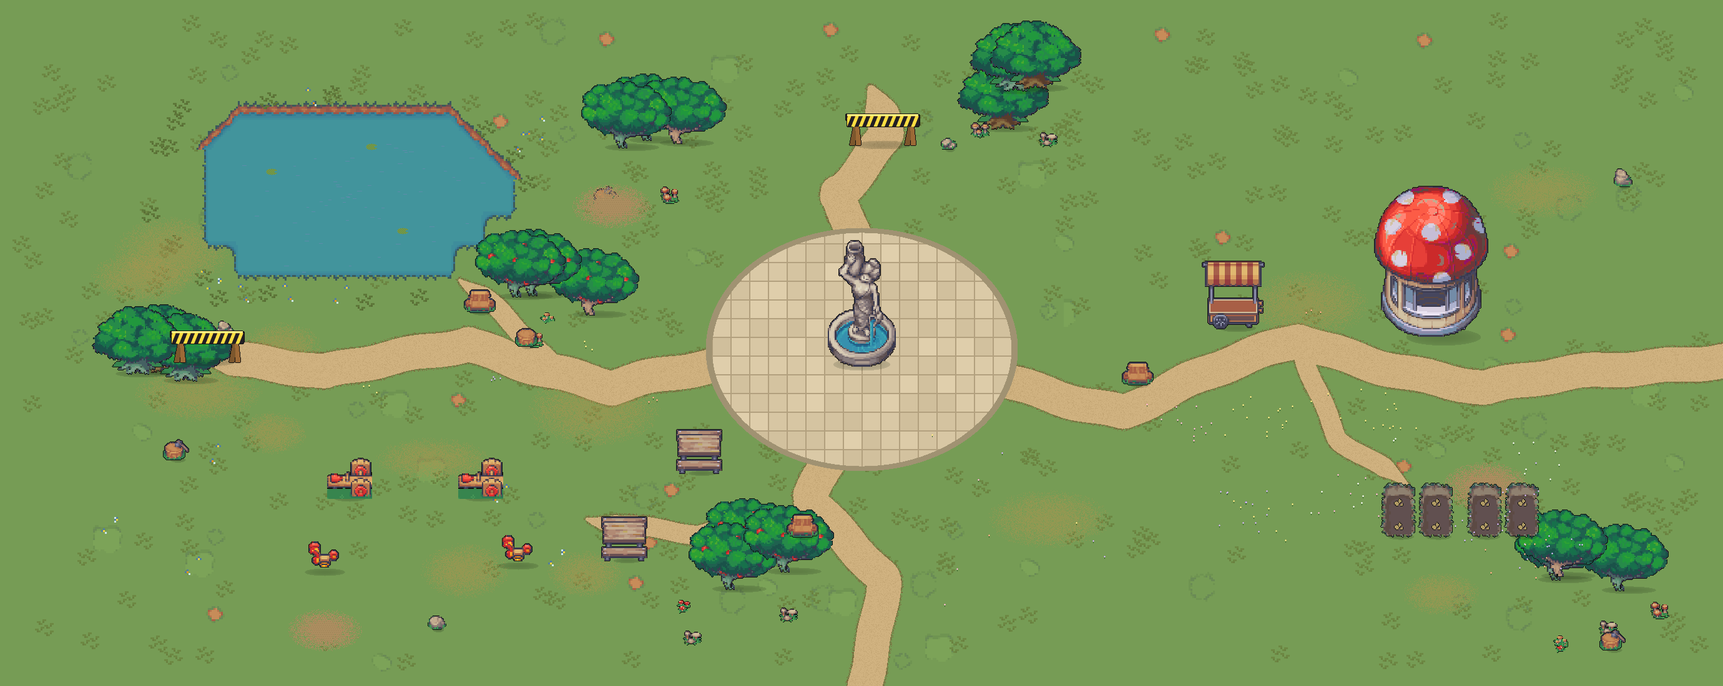
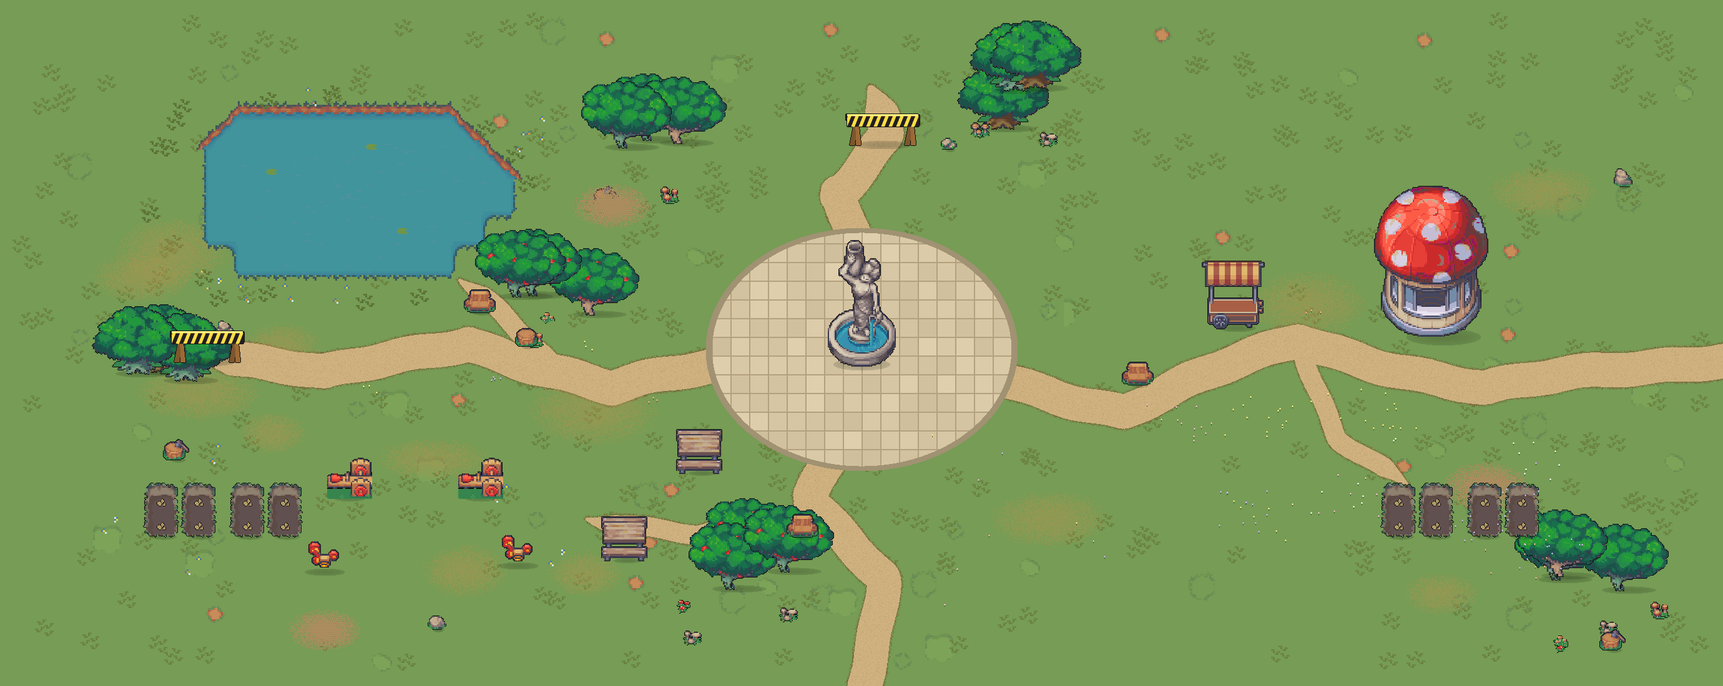
Park 2.0 W3: GARDENER LEVELS + STAR TIERS + FARM CROPS - tomato star3/90c/4d, pumpkin star4/160c/5d, golden wheat star5/300c/6d (4 baked stages each), stars feed the bloom server-side (0.06/h/star, wilt 3+stars/2 days), gardener lvl from garden_harvests pass stat gates the shelf (L2@3/L3@8/L4@15, lo

Changed region(s): [[0.0623, 0.68, 0.187, 0.8036]]

diff --git a/src/scripts/banana-park.js b/src/scripts/banana-park.js
@@ -104,20 +104,38 @@ function drawApron(ctx, S) {
 }
 
 // 🌱 THE GARDEN — the park's daily-return ritual (P3b).
-// ⚠ growth days must match GARDEN_SEEDS in worker-rave/src/index.js.
-// Harvests pay in DRAFT wearables (own_<id> pass stats — the items sit on the
-// /dev-wearables desk behind preview:true until Trym approves them).
+// ⚠ THE seed catalog — stars/days/price must match GARDEN_SEEDS in
+// worker-rave/src/index.js (one catalog, two runtimes). ⭐ stars have ONE
+// meaning: a living plant feeds the Bloom by its stars (higher also wilts
+// slower, server-side). Flowers harvest into DRAFT wearables (own_<id> pass
+// stats, /dev-wearables desk); crops pay rep (stars × 8) — crop wearables
+// wait on a Trym batch review.
 const SEEDS = [
-  { id: 'daisy', emoji: '🌼', name: 'daisy', price: 10, days: 2, wearable: 'daisypin', wearLabel: 'daisy pin' },
-  { id: 'sunflower', emoji: '🌻', name: 'sunflower', price: 25, days: 4, wearable: 'sunflowercrown', wearLabel: 'sunflower crown' },
-  { id: 'tulip', emoji: '🌷', name: 'midnight tulip', price: 60, days: 5, wearable: 'midnighttulip', wearLabel: 'midnight tulip', rare: true },
+  { id: 'daisy', emoji: '🌼', name: 'daisy', stars: 1, price: 10, days: 2, wearable: 'daisypin', wearLabel: 'daisy pin' },
+  { id: 'sunflower', emoji: '🌻', name: 'sunflower', stars: 2, price: 25, days: 4, wearable: 'sunflowercrown', wearLabel: 'sunflower crown' },
+  { id: 'tulip', emoji: '🌷', name: 'midnight tulip', stars: 3, price: 60, days: 5, wearable: 'midnighttulip', wearLabel: 'midnight tulip', rare: true },
+  { id: 'tomato', emoji: '🍅', name: 'tomato', stars: 3, price: 90, days: 4, crop: 1 },
+  { id: 'pumpkin', emoji: '🎃', name: 'pumpkin', stars: 4, price: 160, days: 5, crop: 1 },
+  { id: 'wheat', emoji: '🌾', name: 'golden wheat', stars: 5, price: 300, days: 6, crop: 1, rare: true },
 ];
 const SEED_BY = {};
 SEEDS.forEach((s) => { SEED_BY[s.id] = s; });
-// growth-stage sprites (generated by build-park-scene.py, pack art) + dims
+const starStr = (n) => '⭐'.repeat(n);
+// 🧑🌾 gardener level — derived from total harvests (garden_harvests pass
+// stat): reach GLVL_AT[i] harvests → level i+1 → seeds up to GLVL_STARS[i]
+const GLVL_AT = [0, 3, 8, 15];
+const GLVL_STARS = [2, 3, 4, 5];
+// growth-stage sprites (generated by build-park-scene.py, pack art) + dims;
+// crops carry four stages of their own (c-<id>-1..4)
 const STAGE_ART = {
   sprout1: ['g-sprout1.png', 24, 28], sprout2: ['g-sprout2.png', 24, 33],
   daisy: ['g-daisy.png', 26, 31], sunflower: ['g-sunflower.png', 31, 47], tulip: ['g-tulip.png', 31, 26],
+  tomato1: ['c-tomato-1.png', 22, 19], tomato2: ['c-tomato-2.png', 22, 33],
+  tomato3: ['c-tomato-3.png', 22, 38], tomato4: ['c-tomato-4.png', 28, 58],
+  pumpkin1: ['c-pumpkin-1.png', 28, 19], pumpkin2: ['c-pumpkin-2.png', 38, 28],
+  pumpkin3: ['c-pumpkin-3.png', 38, 35], pumpkin4: ['c-pumpkin-4.png', 38, 51],
+  wheat1: ['c-wheat-1.png', 24, 12], wheat2: ['c-wheat-2.png', 24, 24],
+  wheat3: ['c-wheat-3.png', 24, 26], wheat4: ['c-wheat-4.png', 31, 38],
 };
 const GARDEN_API = 'https://banana-rave.trymstene.workers.dev/park-garden';
 // 🌿 weed spots for the ?parktest shim only — the real list lives server-side
@@ -140,25 +158,16 @@ const ANIMALS = [
 // ?parktest gathers the land animals by the plaza spawn (ducks stay pond-side)
 const TEST_ANIMAL_HOMES = [[1270, 830], [1340, 890], [1440, 880], null, null, [1470, 820]];
 
-// 🥚 the bloom card's animals line, phase by phase (W2)
-const EGG_LINES = [
-  'the animals mope about, heads down. nobody lays anything.',
-  'the animals mope about, heads down. nobody lays anything.',
-  'the hens are unsettled — an egg turns up once in a while.',
-  'the animals are happy. eggs come steady — first tap gets them.',
-  'the flock is thriving — at full bloom an egg can come out GOLDEN.',
-];
-
 // 🌸 the bloom card IS the bar (Trym): five tappable phase segments, a
 // glyph each, wilted→lush ramp; a tap reveals that phase's line below
 const PHASE_GLYPHS = ['💀', '🍂', '🌱', '🌿', '🦋'];
-// the five honest phase lines — dead → perfect
+// ONE line per phase (Trym): the state + what to do about it
 const PHASE_LINES = [
-  '💀 the park is dead. dust, straw and bare branches.',
-  '🍂 wilting badly — the straw is winning.',
-  '🌾 patchy — green in places, straw in others. keep going.',
-  '🌿 nearly back — the squirrels returned.',
-  '🦋 in full bloom. the butterflies are out.',
+  '💀 the park is dead — pull the weeds and plant something.',
+  '🍂 wilting badly — keep pulling, keep planting.',
+  '🌾 patchy, half straw — water what grows.',
+  '🌿 nearly back — keep it watered and weeded.',
+  '🦋 in full bloom — hold it here and an egg can come out golden.',
 ];
 
 const WISHES = [
@@ -988,12 +997,13 @@ function init() {
   const myShort = worldSid().slice(0, 8);
   const gardenPanel = document.getElementById('pkGarden');
   const gardenBody = document.getElementById('pkGardenBody');
-  let gSlots = Array(8).fill(null);
+  // 16 slots since W3 — 0-7 site A (meadow), 8-15 site B (playground)
+  let gSlots = Array(16).fill(null);
   const gEls = PLOTS.map(() => ({ plant: null, chip: null, stage: '', chipKey: '' }));
   let pendingGarden = null, gardenOpenSlot = -1;
   let plantTracked = false, waterTracked = false, harvestTracked = false;
   const gShim = {   // the ?parktest stand-in server (pre-lays a plain + golden egg)
-    slots: Array(8).fill(null), weeds: [], bloom: 70,
+    slots: Array(16).fill(null), weeds: [], bloom: 70,
     eggs: [{ id: 'qa1', x: 1330, y: 876 }, { id: 'qa2', x: 1432, y: 866, g: 1 }],
   };
   function shimGarden(path, body) {
@@ -1053,7 +1063,17 @@ function init() {
   function gStageArt(s) {
     const sd = SEED_BY[s.seed] || SEEDS[0];
     const t = gDays(s) / sd.days;
+    if (sd.crop) {   // crops grow through their own four baked stages
+      return STAGE_ART[s.seed + (t >= 1 ? 4 : t >= 0.66 ? 3 : t >= 0.33 ? 2 : 1)];
+    }
     return t >= 1 ? STAGE_ART[s.seed] : t >= 0.4 ? STAGE_ART.sprout2 : STAGE_ART.sprout1;
+  }
+  // 🧑🌾 gardener level from harvests: [lvl 1..GLVL_AT.length, harvests, max ⭐]
+  function gardenerLvl() {
+    const n = (passGet().stats || {}).garden_harvests || 0;
+    let l = 1;
+    while (l < GLVL_AT.length && n >= GLVL_AT[l]) l++;
+    return { lvl: l, n, stars: GLVL_STARS[l - 1] };
   }
   // no text signs on the lawn (they cramped instantly — Trym): the identifier
   // is a tiny emoji CHIP above each plant; yellow ring + dot = yours. All the
@@ -1227,6 +1247,7 @@ function init() {
   bloomBtn.addEventListener('click', () => {
     const n = weeds.size;
     const v = Math.max(0, bloomV);
+    const stars = gSlots.reduce((t, s) => t + ((SEED_BY[s && s.seed] || {}).stars || 0), 0);
     gardenBody.innerHTML = '<h2>🌸 the bloom</h2>'
       + '<div class="pk-bsegs">' + PHASE_GLYPHS.map((g, i) =>
         '<button class="pk-bseg pk-bseg--' + i + (i === phase ? ' is-now' : '') + '" type="button"'
@@ -1234,13 +1255,13 @@ function init() {
         + '<i style="width:' + Math.round(Math.max(0, Math.min(1, (v - PHASE_STARTS[i]) / 20)) * 100) + '%"></i>'
         + '<span>' + g + '</span></button>').join('') + '</div>'
       + '<p class="pk-bloomnum">' + v + '%'
-      + (n ? ' · ' + n + ' weed' + (n === 1 ? '' : 's') + ' out there' : '') + '</p>'
-      + '<p id="pkBexp"></p><p class="pk-bexp--sub" id="pkBexp2"></p>';
-    const exp = document.getElementById('pkBexp'), exp2 = document.getElementById('pkBexp2');
+      + (n ? ' · ' + n + ' weed' + (n === 1 ? '' : 's') + ' out there' : '')
+      + (stars ? ' · ' + starStr(Math.min(stars, 5)) + (stars > 5 ? '×' + stars : '') + ' feeding it' : '') + '</p>'
+      + '<p id="pkBexp"></p>';
+    const exp = document.getElementById('pkBexp');
     const show = (i) => {
       exp.className = 'pk-bexp' + (i <= 1 ? ' pk-bexp--sad' : '');
       exp.textContent = PHASE_LINES[i];
-      exp2.textContent = EGG_LINES[i];
       gardenBody.querySelectorAll('.pk-bseg').forEach((b) => b.classList.toggle('is-open', +b.dataset.p === i));
     };
     gardenBody.querySelectorAll('.pk-bseg').forEach((b) => {
@@ -1272,15 +1293,24 @@ function init() {
   function openSeedSheet(i) {
     gardenOpenSlot = i;
     const bal = coinBal();
+    const gl = gardenerLvl();
+    // locked seeds stay VISIBLE (aspiration) — greyed, with the level they need
+    const lvlFor2 = (sd) => 1 + GLVL_STARS.findIndex((mx) => sd.stars <= mx);
     gardenBody.innerHTML = '<h2>an empty patch</h2>'
+      + '<p class="pk-glvl">🧑🌾 gardener lvl ' + gl.lvl + ' · ' + gl.n + ' harvest' + (gl.n === 1 ? '' : 's') + '</p>'
       + '<p class="pk-panel__sub">plant a seed — it grows on real days, even while you’re gone. '
-      + 'come back to water it (unwatered 3 days = it wilts away).</p>'
-      + SEEDS.map((sd) => '<button class="pk-seedrow" type="button" data-seed="' + sd.id + '"'
-        + (bal < sd.price ? ' disabled' : '') + '>'
-        + '<i>' + sd.emoji + '</i>'
-        + '<span class="pk-seedrow__txt"><b>' + sd.name + (sd.rare ? ' <em>rare</em>' : '') + '</b>'
-        + '<small>' + sd.days + ' days → the ' + sd.wearLabel + '</small></span>'
-        + coinChip(sd.price) + '</button>').join('')
+      + 'water it or it wilts away (higher ⭐ holds out longer). ⭐ feed the bloom while it lives.</p>'
+      + SEEDS.map((sd) => {
+        const locked = sd.stars > gl.stars;
+        return '<button class="pk-seedrow' + (locked ? ' pk-seedrow--lock' : '') + '" type="button"'
+          + ' data-seed="' + sd.id + '"' + (locked || bal < sd.price ? ' disabled' : '') + '>'
+          + '<i>' + sd.emoji + '</i>'
+          + '<span class="pk-seedrow__txt"><b>' + sd.name + (sd.rare ? ' <em>rare</em>' : '') + '</b>'
+          + '<small>' + starStr(sd.stars) + ' · ' + sd.days + ' days → '
+          + (locked ? '🔒 gardener lvl ' + lvlFor2(sd)
+            : sd.crop ? '+' + (sd.stars * 8) + ' rep' : 'the ' + sd.wearLabel) + '</small></span>'
+          + coinChip(sd.price) + '</button>';
+      }).join('')
       + (bal < SEEDS[0].price ? '<p class="pk-seedpoor">no coins — the rave floor drops them</p>' : '');
     gardenBody.querySelectorAll('.pk-seedrow').forEach((b) => {
       b.addEventListener('click', () => plantSeed(i, b.dataset.seed));
@@ -1289,7 +1319,7 @@ function init() {
   }
   async function plantSeed(i, seedId) {
     const sd = SEED_BY[seedId];
-    if (!sd || coinBal() < sd.price) return;
+    if (!sd || coinBal() < sd.price || sd.stars > gardenerLvl().stars) return;
     passStat('coins_spent', sd.price);
     refreshHud();
     closeGarden();
@@ -1317,6 +1347,7 @@ function init() {
       ? '<h2>' + sd.emoji + ' your ' + sd.name + '</h2>'
       : '<h2>' + esc(s.name || 'a mystery banana') + '</h2>'
         + '<p class="pk-gplant">' + sd.emoji + ' their ' + sd.name + '</p>')
+      + '<p class="pk-gplant">' + starStr(sd.stars) + '</p>'
       + '<p class="pk-panel__sub">' + (ready
         ? (mine ? 'full-grown — tap it to harvest!' : 'ready to pick — only its grower can harvest it.')
         : 'day ' + Math.min(gDays(s) + 1, sd.days) + ' of ' + sd.days + ' · growing on real days')
@@ -1324,7 +1355,8 @@ function init() {
       + '<p class="pk-gwater">💧 watered by ' + (s.waterers || 0) + ' visitor' + (s.waterers === 1 ? '' : 's') + '</p>'
       + (ready ? '' : '<button class="pk-btn pk-gbtn" id="pkWaterBtn" type="button">💧 water it'
         + (mine ? '' : ' <small>+2 rep</small>') + '</button>')
-      + (mine ? '<p class="pk-gsaved">💾 saved to your pass</p>' : '');
+      + (mine ? '<p class="pk-gsaved">' + (sd.crop
+        ? '🌾 harvest pays +' + (sd.stars * 8) + ' rep' : '💾 saved to your pass') + '</p>' : '');
     const wb = document.getElementById('pkWaterBtn');
     if (wb) wb.addEventListener('click', () => waterSlot(i));
     gardenPanel.hidden = false;
@@ -1360,10 +1392,21 @@ function init() {
     const res = await gFetch('/harvest', { slot: i, pass: worldSid() });
     if (res && res.err) { applyGarden(res); toast(res.err === 'still growing' ? 'not quite ready yet' : 'the patch is bare'); return; }
     applyGarden(res);
-    passStat('own_' + sd.wearable, 1);   // the wearable's earned-gate proof
+    const before = gardenerLvl().lvl;
+    passStat('garden_harvests', 1);      // the gardener level's ledger
     confettiAt(PLOTS[i][0], PLOTS[i][1]);
-    toast(sd.emoji + ' ' + sd.wearLabel + ' harvested — saved to your pass!', 4200);
-    if (!harvestTracked) { harvestTracked = true; track('park_harvest', { seed: s.seed }); }
+    if (sd.crop) {                       // crops pay rep by stars — never coins
+      passStat('rep', sd.stars * 8);
+      refreshHud();
+      float(PLOTS[i][0], PLOTS[i][1] - 20, '+' + (sd.stars * 8));
+      toast(sd.emoji + ' ' + sd.name + ' harvested — +' + (sd.stars * 8) + ' rep!', 4200);
+    } else {
+      passStat('own_' + sd.wearable, 1); // the wearable's earned-gate proof
+      toast(sd.emoji + ' ' + sd.wearLabel + ' harvested — saved to your pass!', 4200);
+    }
+    const gl = gardenerLvl();
+    if (gl.lvl > before) setTimeout(() => toast('🧑🌾 gardener lvl ' + gl.lvl + ' — new seeds in the sheet!', 4600), 1500);
+    if (!harvestTracked) { harvestTracked = true; track('park_harvest', { seed: s.seed, level: gl.lvl }); }
   }
   function gardenAct(i) {
     const s = gSlots[i];
@@ -1615,6 +1658,9 @@ function init() {
       // 🐔 mood QA: pop every animal's bubble right now
       mood: () => animals.forEach((a) => showMood(a)),
       coins: (n) => { passStat('coins_earned', n); refreshHud(); },
+      // 🧑🌾 gardener QA: set the harvest count / jump straight to a level
+      harvests: (n) => { passStat('garden_harvests', n - ((passGet().stats || {}).garden_harvests || 0)); return gardenerLvl(); },
+      lvl: (n) => { passStat('garden_harvests', GLVL_AT[Math.max(1, Math.min(GLVL_AT.length, n)) - 1] - ((passGet().stats || {}).garden_harvests || 0)); return gardenerLvl(); },
       warp: (x, y) => { pos.x = x; pos.y = y; tgt.x = x; tgt.y = y; meWX = NaN; },
       // 🌱 garden QA: read state, fast-forward growth d days (shim store =
       // this session's local stand-in server; render follows on next poll)

diff --git a/worker-rave/src/index.js b/worker-rave/src/index.js
@@ -861,22 +861,30 @@ export class ParkRoom {
     });
     let slots = (await this.state.storage.get('garden')) || [];
     if (!Array.isArray(slots)) slots = [];
-    while (slots.length < 8) slots.push(null);
-    slots = slots.slice(0, 8);
+    // W3 grew the garden 8 → 16 (site B by the playground): stored arrays PAD
+    // to 16 — indices 0-7 (site A) must never reindex, live plants sit there
+    while (slots.length < GARDEN_SLOTS) slots.push(null);
+    slots = slots.slice(0, GARDEN_SLOTS);
     const now = Date.now();
-    // wilt sweep: unwatered 3+ days → the slot frees itself on the next read
+    // wilt sweep: unwatered too long → the slot frees itself on the next
+    // read; higher ⭐ holds out longer (3 + floor(stars/2) dry days)
     let dirty = false;
-    for (let i = 0; i < 8; i++) {
+    for (let i = 0; i < GARDEN_SLOTS; i++) {
       const w = slots[i];
-      if (w && now - (w.lastWater || w.plantedAt || 0) > 3 * 86_400_000) { slots[i] = null; dirty = true; }
+      const allow = (3 + Math.floor(gardenSeed(w && w.seed).stars / 2)) * 86_400_000;
+      if (w && now - (w.lastWater || w.plantedAt || 0) > allow) { slots[i] = null; dirty = true; }
     }
-    // 🌿 weeds + 🌸 bloom ride the same read: lazy decay, catch-up spawns
+    // 🌿 weeds + 🌸 bloom ride the same read: lazy decay, catch-up spawns.
+    // ⭐ every living plant FEEDS the meter by its stars (post-wilt-sweep, so
+    // only plants that made it through count)
     const wd = (await this.state.storage.get('weeds')) || { list: [], nextAt: 0 };
     const bl = (await this.state.storage.get('bloom')) || { v: 70, at: now };
     const hrs = Math.max(0, (now - bl.at) / 3600_000);
     const decayed = hrs > 0.001;
     if (decayed) {
-      bl.v = Math.max(BLOOM_FLOOR, bl.v - hrs * (BLOOM_BASE_DRIFT + BLOOM_WEED_DRAG * wd.list.length));
+      const stars = slots.reduce((t, s2) => t + (s2 ? gardenSeed(s2.seed).stars : 0), 0);
+      bl.v = Math.min(100, Math.max(BLOOM_FLOOR,
+        bl.v - hrs * (BLOOM_BASE_DRIFT + BLOOM_WEED_DRAG * wd.list.length - BLOOM_STAR_FEED * stars)));
       bl.at = now;
     }
     if (!wd.nextAt || wd.nextAt < now - 86_400_000) wd.nextAt = now + WEED_EVERY;
@@ -966,7 +974,7 @@ export class ParkRoom {
       return json(payload({ ok: 1 }));
     }
     const i = Math.floor(Number(b.slot));
-    if (!(i >= 0 && i < 8)) return json({ err: 'bad slot' }, 400);
+    if (!(i >= 0 && i < GARDEN_SLOTS)) return json({ err: 'bad slot' }, 400);
     const s = slots[i];
     if (url.pathname === '/garden/plant') {
       if (s) return json(payload({ err: 'taken' }), 409);
@@ -992,7 +1000,7 @@ export class ParkRoom {
       if (!s) return json(payload({ err: 'empty' }), 404);
       if (s.passShort !== short) return json({ err: 'not yours' }, 403);
       const days = Math.floor((now - s.plantedAt) / 86_400_000);
-      if (days < GARDEN_SEEDS[s.seed]) return json(payload({ err: 'still growing' }), 409);
+      if (days < gardenSeed(s.seed).days) return json(payload({ err: 'still growing' }), 409);
       slots[i] = null;
     } else {
       return json({ err: 'not found' }, 404);
@@ -1266,8 +1274,25 @@ function bayStrip(p) {
   return { id: p.id, outfit: p.outfit, x: p.x, y: p.y, sit: p.sit || undefined, name: p.name || undefined };
 }
 
-// 🌱 growth days per seed — ⚠ keep in sync with SEEDS in src/scripts/banana-park.js
-const GARDEN_SEEDS = { daisy: 2, sunflower: 4, tulip: 5 };
+// 🌱 THE seed catalog — ⚠ keep in sync with SEEDS in src/scripts/banana-park.js
+// (one catalog, two runtimes). ⭐ stars: a living plant feeds the bloom by its
+// stars (BLOOM_STAR_FEED below) and wilts slower — dry-day allowance =
+// 3 + floor(stars / 2). Price is client-side display/spend only (coins are
+// client-authoritative), the server never charges it.
+const GARDEN_SEEDS = {
+  daisy: { days: 2, stars: 1, price: 10 },
+  sunflower: { days: 4, stars: 2, price: 25 },
+  tulip: { days: 5, stars: 3, price: 60 },
+  tomato: { days: 4, stars: 3, price: 90 },
+  pumpkin: { days: 5, stars: 4, price: 160 },
+  wheat: { days: 6, stars: 5, price: 300 },
+};
+const gardenSeed = (id) => GARDEN_SEEDS[id] || { days: 99, stars: 1 };
+// 16 slots: 0-7 = site A by the meadow, 8-15 = W3's site B by the playground
+const GARDEN_SLOTS = 16;
+// each living plant lifts the bloom +0.06/h per star: a full 8-slot garden of
+// ⭐2-3s (~1.2/h) carries the base drift plus roughly 2-3 weeds' drag
+const BLOOM_STAR_FEED = 0.06;
 
 // 🌿 W1 WEEDS + 🌸 THE BLOOM — the park's entropy loop. All tuning here:
 // weeds spawn ~1/2h to a cap of 10; each live weed drags the bloom 0.35/h on
@@ -1292,7 +1317,7 @@ const EGG_SPOTS = [[1060, 640], [1150, 706], [1270, 745], [1005, 715], [1180, 76
 // lawn spots only — clear of the plaza, roads, pond, plots and colliders.
 // ⚠ keep in sync with the ?parktest shim's copy in src/scripts/banana-park.js
 const WEED_SPOTS = [
-  [380, 690], [450, 620], [300, 830], [420, 940], [680, 600], [250, 480],
+  [380, 690], [450, 620], [340, 750], [420, 940], [680, 600], [250, 480],
   [880, 260], [1180, 300], [760, 180], [1420, 150], [1180, 150],
   [1750, 320], [1900, 380], [2100, 300], [2550, 400], [2100, 250], [2600, 480],
   [960, 640], [1700, 560], [1650, 700], [1950, 700], [2050, 860],

diff --git a/src/scripts/park-geo.js b/src/scripts/park-geo.js
@@ -10,9 +10,9 @@ export const MARKET = { stand: [1975, 528], cart: [2300, 545] };
 export const SWINGS = [[560, 800, 72, 72], [770, 800, 72, 72], [520, 920, 72, 72], [830, 910, 72, 72]];
 export const SIGNS = [[332, 584], [1414, 236]];
 export const MEADOW = [1860, 640, 2500, 940];
-export const PLOTS = [[2240, 800], [2240, 838], [2300, 800], [2300, 838], [2378, 800], [2378, 838], [2438, 800], [2438, 838]];
+export const PLOTS = [[2240, 800], [2240, 838], [2300, 800], [2300, 838], [2378, 800], [2378, 838], [2438, 800], [2438, 838], [258, 800], [258, 838], [318, 800], [318, 838], [396, 800], [396, 838], [456, 800], [456, 838]];
 export const DOORS = { south: { x: 1380, y: 1060 }, east: { x: 2700, y: 560 } };
-export const OB_RECTS = [[247, 562, 273, 598], [284, 576, 310, 612], [207, 565, 233, 601], [1029, 190, 1055, 226], [1078, 195, 1104, 231], [990, 202, 1016, 238], [1188, 871, 1214, 907], [1162, 910, 1188, 946], [1250, 882, 1276, 918], [1593, 172, 1619, 208], [1613, 111, 1639, 147], [1645, 107, 1671, 143], [2587, 912, 2613, 948], [2485, 895, 2511, 931], [2490, 889, 2516, 925], [938, 470, 964, 506], [846, 439, 872, 475], [820, 441, 846, 477], [1905, 482, 2045, 534], [2200, 487, 2400, 551], [2212, 812, 2268, 866], [2272, 812, 2328, 866], [2350, 812, 2406, 866], [2410, 812, 2466, 866], [508, 780, 612, 806], [718, 780, 822, 806], [1076, 730, 1164, 766], [956, 870, 1044, 906], [734, 484, 802, 506], [1788, 600, 1856, 622], [1251, 844, 1319, 866], [288, 566, 376, 588], [1370, 218, 1458, 240]];
+export const OB_RECTS = [[247, 562, 273, 598], [284, 576, 310, 612], [207, 565, 233, 601], [1029, 190, 1055, 226], [1078, 195, 1104, 231], [990, 202, 1016, 238], [1188, 871, 1214, 907], [1162, 910, 1188, 946], [1250, 882, 1276, 918], [1593, 172, 1619, 208], [1613, 111, 1639, 147], [1645, 107, 1671, 143], [2587, 912, 2613, 948], [2485, 895, 2511, 931], [2490, 889, 2516, 925], [938, 470, 964, 506], [846, 439, 872, 475], [820, 441, 846, 477], [1905, 482, 2045, 534], [2200, 487, 2400, 551], [2212, 812, 2268, 866], [2272, 812, 2328, 866], [2350, 812, 2406, 866], [2410, 812, 2466, 866], [230, 812, 286, 866], [290, 812, 346, 866], [368, 812, 424, 866], [428, 812, 484, 866], [508, 780, 612, 806], [718, 780, 822, 806], [1076, 730, 1164, 766], [956, 870, 1044, 906], [734, 484, 802, 506], [1788, 600, 1856, 622], [1251, 844, 1319, 866], [288, 566, 376, 588], [1370, 218, 1458, 240]];
 export const OB_CIRCLES = [[970, 332, 20], [843, 556, 20], [2583, 1043, 20], [282, 738, 20], [1380, 570, 39], [520, 920, 18], [830, 910, 18], [360, 540, 20], [2600, 300, 20], [1520, 240, 20], [700, 1010, 20]];
 export const OVERLAYS = [['ov-0.png', 187, 488, 147, 110, 598], ['ov-1.png', 224, 502, 147, 110, 612], ['ov-2.png', 147, 491, 147, 110, 601], ['ov-3.png', 970, 118, 145, 108, 226], ['ov-4.png', 1019, 123, 145, 108, 231], ['ov-5.png', 931, 130, 145, 108, 238], ['ov-6.png', 1129, 799, 145, 108, 907], ['ov-7.png', 1103, 838, 145, 108, 946], ['ov-8.png', 1191, 810, 145, 108, 918], ['ov-9.png', 1533, 98, 147, 110, 208], ['ov-10.png', 1553, 37, 147, 110, 147], ['ov-11.png', 1585, 33, 147, 110, 143], ['ov-12.png', 2528, 840, 145, 108, 948], ['ov-13.png', 2426, 823, 145, 108, 931], ['ov-14.png', 2431, 817, 145, 108, 925], ['ov-15.png', 879, 398, 145, 108, 506], ['ov-16.png', 787, 367, 145, 108, 475], ['ov-17.png', 761, 369, 145, 108, 477], ['ov-18.png', 1925, 418, 101, 110, 528], ['ov-19.png', 2201, 298, 199, 247, 545], ['ov-20.png', 1083, 688, 74, 72, 760], ['ov-21.png', 963, 828, 74, 72, 900]];
 export const TREE_OVS = [0, 1, 2, 3, 4, 5, 6, 7, 8, 9, 10, 11, 12, 13, 14, 15, 16, 17];

diff --git a/tools/build-park-scene.py b/tools/build-park-scene.py
@@ -858,17 +858,20 @@ if HAVE_PACK:
     try_place(['ME_Singles_City_Props_48x48_Kiosk_Mushroom_1.png'],
               2300, 545, solid=SHOP_BOX, layer=True, colors=28)
 
-# ---- 🌱 THE GARDEN (P3b) — two soil beds, 4 slots each ---------------------
+# ---- 🌱 THE GARDEN (P3b/W3) — four soil beds, 4 slots each -----------------
 # The bed is the graveyard family's Dirt_Ditch_1 — a 3×3-tile patch of dug
 # earth with torn-grass edges (no farm/planter family exists in the pack; the
 # only true turned-soil rectangle lives here). Slots are marked with the
 # Terrains Props_Dirt speckles so each reads as its own patch. Baked, solid,
 # NOT layered — the growing plants are client overlays and must draw on top.
+# W3: site B (gx 288/426) mirrors site A west of the playground, tucked clear
+# of the swings. ⚠ TUPLE ORDER IS THE SLOT CONTRACT: site A = slots 0-7,
+# site B = 8-15 — live production plants sit on 0-7, never reorder.
 PLOTS = []
 if HAVE_PACK:
     # each bed = TWO ditches side by side (the ditch soil is ~52px wide — one
     # slot column each, two rows), so every slot sits ON dug earth
-    for gx in (2270, 2408):
+    for gx in (2270, 2408, 288, 426):
         for sx in (gx - 30, gx + 30):
             place('ME_Singles_Graveyard_48x48_Dirt_Ditch_1.png', sx, 862,
                   solid=('rect', -28, -50, 28, 4), colors=28, sh=0.36)
@@ -908,6 +911,28 @@ if os.path.isdir(FARM):
         print('  w-weed1/2.png: %dx%d (Crop_Grain_Rotten)' % (s.width, s.height))
     except Exception as e:
         print('  weed sprite failed', e)
+
+# ---- 🌾 W3 CROP STAGES — farm-pack growth sheets, baked per stage ----------
+# Sheet grammar: 7 cols of 48px — col 0 sprout, 1-3 growing, 4-6 ripe; the
+# art fills the TOP HALF (a numbers band sits below). Four stages baked per
+# crop (cols 0/1/3/5) → c-<id>-1..4.png; client overlays only, no geometry.
+if os.path.isdir(FARM):
+    import glob as _glob
+    for cid, cropsheet in (('tomato', 'Tomato_Growth_Stages_48x48.png'),
+                           ('pumpkin', 'Pumpkin_Growth_Stages_48x48.png'),
+                           ('wheat', 'Wheat_Growth_Stages_48x48.png')):
+        try:
+            f = _glob.glob(os.path.join(FARM, '**', cropsheet), recursive=True)[0]
+            sheet = Image.open(f).convert('RGBA')
+            arth = sheet.height // 2
+            for n, col in enumerate((0, 1, 3, 5), 1):
+                cell = sheet.crop((col * 48, 0, col * 48 + 48, arth))
+                s = blockify(cell, factor=1, colors=28, warm=0.0, sat=1.0, con=1.0)
+                s = s.resize((max(1, int(s.width * PROP)), max(1, int(s.height * PROP))), Image.NEAREST)
+                s.save(os.path.join(OUT, 'c-%s-%d.png' % (cid, n)), optimize=True)
+                print('  c-%s-%d.png: %dx%d' % (cid, n, s.width, s.height))
+        except Exception as e:
+            print('  crop stages failed', cid, e)
 
 # ---- 🐔 W2 ANIMALS — farm-pack wanderers (client-side, no placement) -------
 # Each sheet's SIDE walk cycle = the walk band's first 6 contiguous frames,
